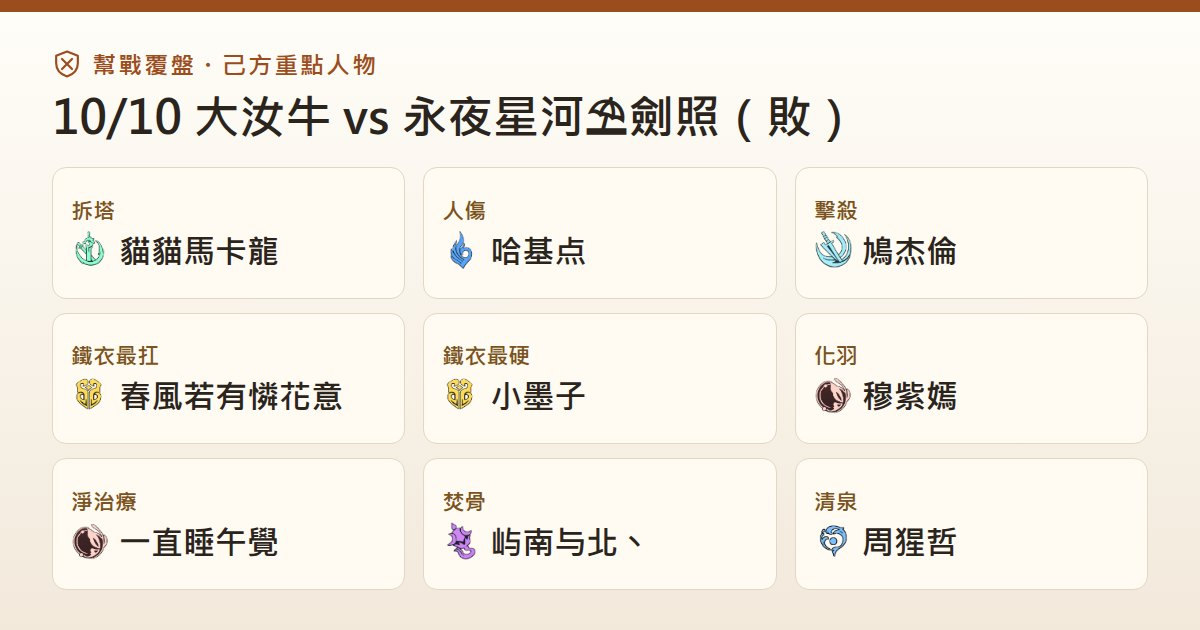
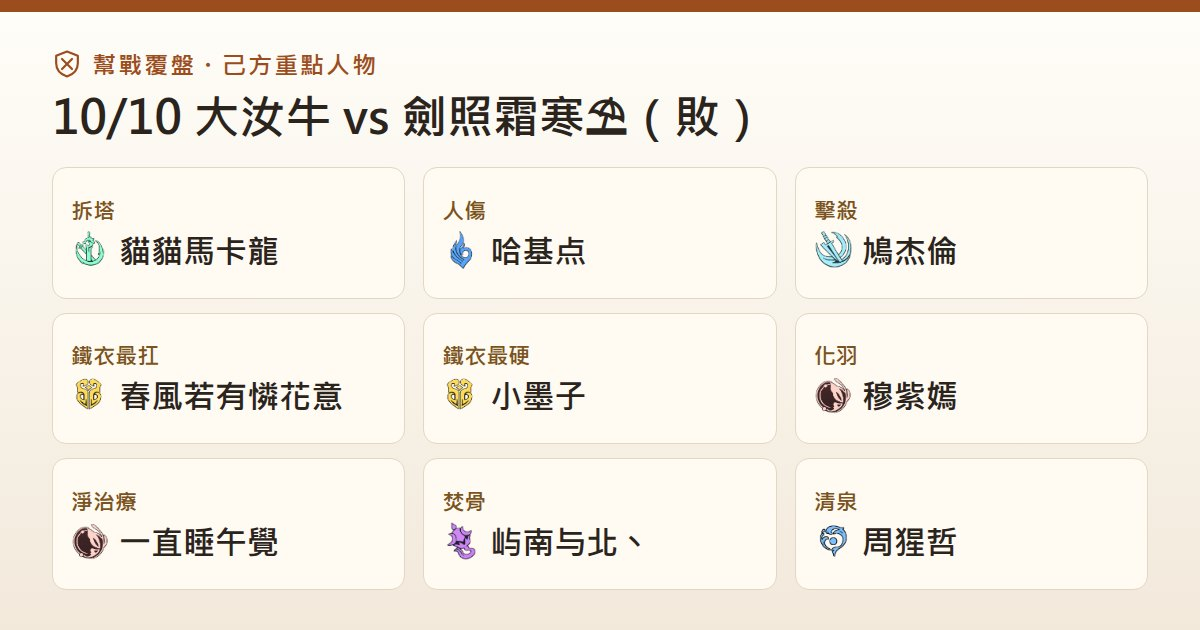
fix: open the latest battle after refresh; rename 10/10 opponent to 劍照霜寒⛱

Changed region(s): [[0.5242, 0.1508, 0.7092, 0.2413], [0.3392, 0.1508, 0.4933, 0.2413]]

diff --git a/desktop/index.html b/desktop/index.html
@@ -5494,11 +5494,13 @@ const OWN_TEAM_FILTER_LABELS = {
 };
 // 頁面一載入就會讀存檔並套用對照（loadState），必須宣告在 `let state` 之前
 // 同一幫會在不同戰報的名稱寫法（2026-10-19 使用者確認）；永夜與永夜星河⛱劍照維持分開
+// 永夜星河⛱劍照改名劍照霜寒⛱，用新名稱（2026-10-24 使用者確認）
 const TEAM_NAME_ALIASES = {
   '涅槃': '℘涅槃༄',
   '落雨梨花': '落雨梨花ꕥ',
   '緣心云醉': '緣心雲醉',
   '緣心': '緣心雲醉',
+  '永夜星河⛱劍照': '劍照霜寒⛱',
 };
 const PLAYER_COHORT_LABELS = {
   all: '所有職業',
@@ -5944,14 +5946,12 @@ function publicLandscapeViewUrl() {
 // 公開版網址可以指定分頁與場次（&tab=、&battle=），切換時網址跟著改，「資料」選單有「複製本頁連結」（2026-10-23，評估報告 B-30）
 const PUBLIC_LINK_TABS = ['review', 'matchup', 'opponents', 'profession', 'quadrant', 'squad', 'players', 'rules'];
 
-// 套用網址指定的場次（找不到就用最新一場），回傳要開的分頁
+// 套用網址指定的場次（沒指定或找不到就用最新一場，不沿用匯出者當時選的場次），回傳要開的分頁
 function applyPublicLinkTarget() {
   const battleId = queryParamValue('battle');
-  if (battleId) {
-    state.activeBattleId = state.battles.some(battle => battle.id === battleId)
-      ? battleId
-      : (latestBattleIdFromIds(state.battles.map(battle => battle.id)) || state.activeBattleId);
-  }
+  state.activeBattleId = battleId && state.battles.some(battle => battle.id === battleId)
+    ? battleId
+    : (latestBattleIdFromIds(state.battles.map(battle => battle.id)) || state.activeBattleId);
   const tab = queryParamValue('tab');
   return PUBLIC_LINK_TABS.includes(tab) ? tab : 'review';
 }
@@ -5965,10 +5965,13 @@ function publicPageLinkUrl() {
   return url;
 }
 
+// 位址列只在看的不是最新一場時寫 &battle=：以前一打開就寫入當時最新的場次，發布新場次後重新整理仍停在舊場次（2026-10-24 使用者回報）。
+// 「複製本頁連結」照樣帶場次
 function syncPublicLinkUrl() {
   if (!isPublicReadOnlyMode() || typeof history === 'undefined' || typeof history.replaceState !== 'function') return;
   try {
     const url = publicPageLinkUrl();
+    if (state.activeBattleId === latestBattleIdFromIds(state.battles.map(battle => battle.id))) url.searchParams.delete('battle');
     history.replaceState(null, '', `${url.pathname}${url.search}${url.hash}`);
   } catch (err) {
     // 網址改不了不影響使用

diff --git a/desktop/s/battle_20261010_203017_yongye.html b/desktop/s/battle_20261010_203017_yongye.html
@@ -3,12 +3,12 @@
 <head>
 <meta charset="UTF-8">
 <meta name="viewport" content="width=device-width, initial-scale=1.0">
-<title>10/10 大汝牛 vs 永夜星河⛱劍照（敗）｜幫戰覆盤</title>
+<title>10/10 大汝牛 vs 劍照霜寒⛱（敗）｜幫戰覆盤</title>
 <meta name="robots" content="noindex">
 <meta name="share-card-version" content="1">
 <meta property="og:type" content="website">
 <meta property="og:site_name" content="幫戰覆盤工具">
-<meta property="og:title" content="10/10 大汝牛 vs 永夜星河⛱劍照（敗）">
+<meta property="og:title" content="10/10 大汝牛 vs 劍照霜寒⛱（敗）">
 <meta property="og:description" content="拆塔 貓貓馬卡龍・人傷 哈基点・擊殺 鳩杰倫・鐵衣最扛 春風若有憐花意・鐵衣最硬 小墨子・化羽 穆紫嫣・淨治療 一直睡午覺・焚骨 屿南与北丶・清泉 周猩哲">
 <meta property="og:url" content="https://justo-arch.github.io/jol-battle-review/desktop/s/battle_20261010_203017_yongye.html">
 <meta property="og:image" content="https://justo-arch.github.io/jol-battle-review/desktop/s/battle_20261010_203017_yongye.jpg">
